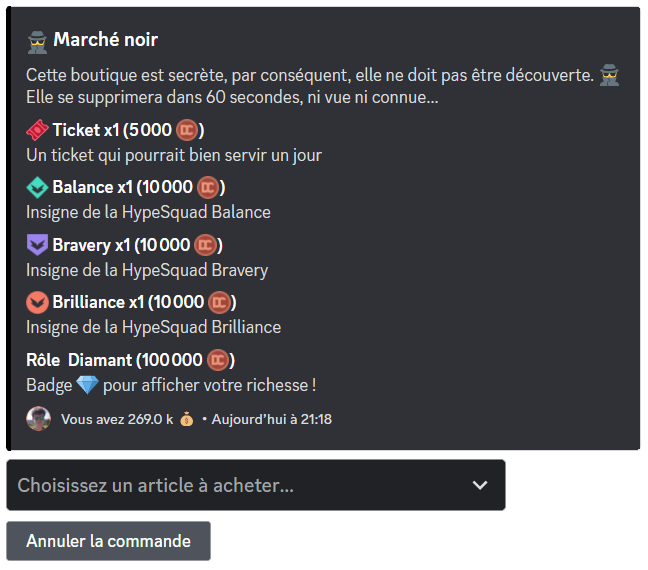
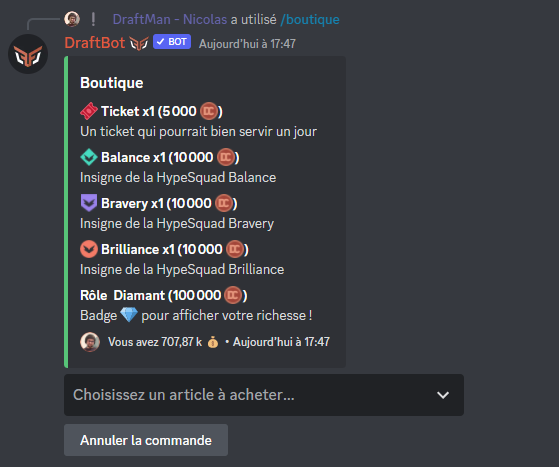
fix: 🐛 Fix Documentation display

diff --git a/slash/gestion-de-leconomie.md b/slash/gestion-de-leconomie.md
@@ -41,16 +41,12 @@ Grâce à la commande <mark style="color:orange;">/topargent</mark> vous avez ac
 Vous pouvez y acheter des rôles (temporaire ou non), de l'expérience, des objets d'inventaire ou des articles personnalisés.
 Elle est accessible avec la commande <mark style="color:orange;">/boutique</mark>\.
 
-{% hint style="info" %}
-Le marché noir est une variante de la boutique consistant à se supprimer au bout de 60 secondes d'inactivité, ni vu ni connu !
-{% endhint %}
-
-![Boutique de DraftBot](../.gitbook/assets/economy/marche-noir.png)
+![Boutique de DraftBot](../.gitbook/assets/economy/shop.png)
 
 {% hint style="info" %}
 Le marché noir est une variante de la boutique consistant à se supprimer au bout de 60 secondes d'inactivité, ni vu ni connu !
 
-![Marché Noir de DraftBot](../.gitbook/assets/economy/shop.png)
+![Marché Noir de DraftBot](../.gitbook/assets/economy/shop-dark.png)
 
 {% endhint %}
 
